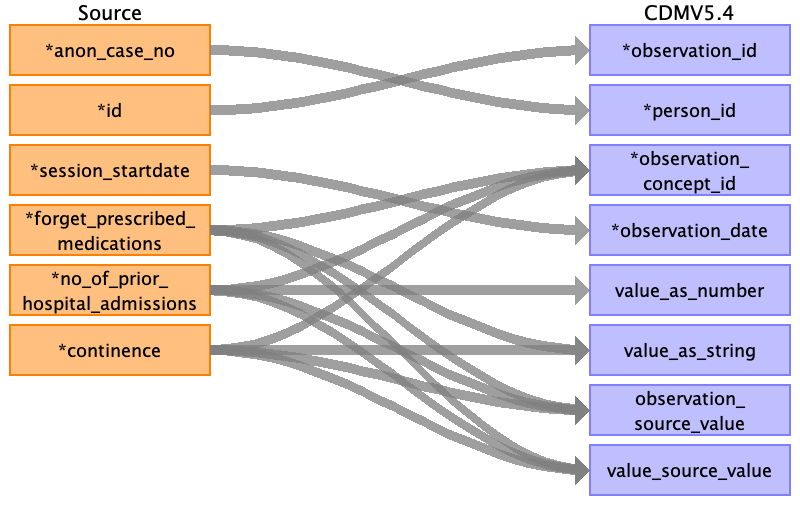
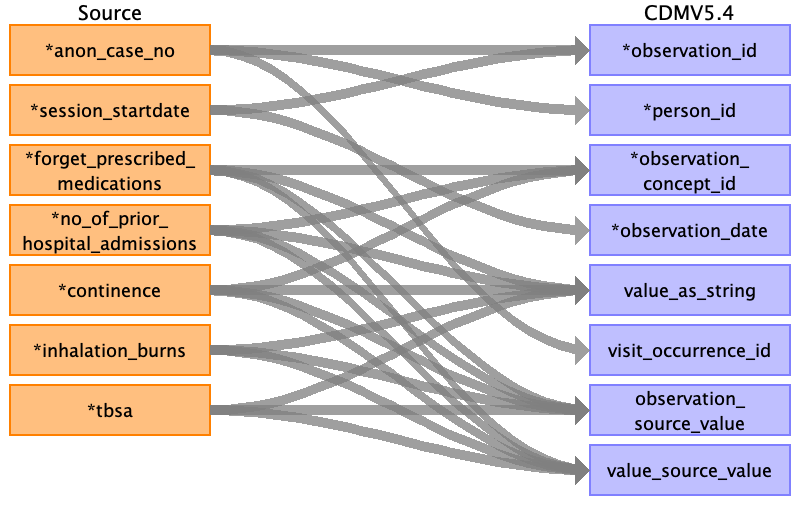
Update condition_occurrence and observation

diff --git a/observation.md b/observation.md
@@ -6,25 +6,25 @@
 
 | Destination Field | Source field | Logic | Comment field |
 | --- | --- | --- | --- |
-| observation_id | id |  |  |
-| person_id | anon_case_no |  |  |
-| observation_concept_id | high_risk_op<br>h_o_ihd<br>h_o_chf<br>h_o_cva<br>dm_on_insulin<br>asa_class<br>cri_functional_status<br>cardiac_risk_index<br>cardiac_risk_class<br>hypertension<br>history_of_osa<br>loud_snoring<br>daytime_tiredness<br>apnoea |  |  |
+| observation_id | anon_case_no<br>session_startdate |  | Autogenerated running id by ascending order of `session_startdate` and `anon_case_no` |
+| person_id | anon_case_no | Joined with PERSON.PERSON_SOURCE_VALUE for PERSON.PERSON_ID |  |
+| observation_concept_id | high_risk_op<br>h_o_ihd<br>h_o_chf<br>h_o_cva<br>dm_on_insulin<br>hypertension<br>history_of_osa<br>loud_snoring<br>daytime_tiredness<br>apnoea<br>cpap_use<br>history_of_hypertension<br>history_of_motion_sickness<br>postop_nausea_smoking_history |  | Need standard concept ids for these observation from vocab mapping team |
 | observation_date | session_startdate |  |  |
 | observation_datetime |  |  |  |
-| observation_type_concept_id |  |  |  |
-| value_as_number | cardiac_risk_index |  |  |
-| value_as_string | h_o_ihd<br>h_o_chf<br>h_o_cva<br>dm_on_insulin<br>asa_class<br>cri_functional_status<br>cardiac_risk_class<br>hypertension<br>history_of_osa<br>loud_snoring<br>daytime_tiredness<br>apnoea |  |  |
+| observation_type_concept_id |  |  | 32879 for Registry |
+| value_as_number |  |  |  |
+| value_as_string | h_o_ihd<br>h_o_chf<br>h_o_cva<br>dm_on_insulin<br>hypertension<br>history_of_osa<br>loud_snoring<br>daytime_tiredness<br>apnoea<br>cpap_use |  | Put the string value of observation here |
 | value_as_concept_id |  |  |  |
 | qualifier_concept_id |  |  |  |
 | unit_concept_id |  |  |  |
 | provider_id |  |  |  |
-| visit_occurrence_id |  |  |  |
+| visit_occurrence_id | anon_case_no |  | Joined anon_case_no with person_id in visit_occurrence table for visit_occurrence_id<br> |
 | visit_detail_id |  |  |  |
-| observation_source_value | high_risk_op<br>h_o_ihd<br>h_o_chf<br>h_o_cva<br>dm_on_insulin<br>asa_class<br>cri_functional_status<br>cardiac_risk_index<br>cardiac_risk_class<br>hypertension<br>history_of_osa<br>loud_snoring<br>daytime_tiredness<br>apnoea |  |  |
+| observation_source_value | high_risk_op<br>h_o_ihd<br>h_o_chf<br>h_o_cva<br>dm_on_insulin<br>hypertension<br>history_of_osa<br>loud_snoring<br>daytime_tiredness<br>apnoea<br>cpap_use<br>history_of_hypertension<br>history_of_motion_sickness<br>postop_nausea_smoking_history |  | Put the name of observation here |
 | observation_source_concept_id |  |  |  |
 | unit_source_value |  |  |  |
 | qualifier_source_value |  |  |  |
-| value_source_value |  |  |  |
+| value_source_value | high_risk_op<br>h_o_ihd<br>h_o_chf<br>h_o_cva<br>dm_on_insulin<br>hypertension<br>history_of_osa<br>loud_snoring<br>daytime_tiredness<br>apnoea<br>cpap_use<br>history_of_hypertension<br>history_of_motion_sickness<br>postop_nausea_smoking_history |  | Put the source value of observation here |
 | observation_event_id |  |  |  |
 | obs_event_field_concept_id |  |  |  |
 
@@ -34,25 +34,25 @@
 
 | Destination Field | Source field | Logic | Comment field |
 | --- | --- | --- | --- |
-| observation_id | id |  |  |
-| person_id | anon_case_no |  |  |
-| observation_concept_id | forget_prescribed_medications<br>no_of_prior_hospital_admissions<br>continence |  |  |
+| observation_id | anon_case_no<br>session_startdate |  | Autogenerated running id by ascending order of `session_startdate` and `anon_case_no` |
+| person_id | anon_case_no | Joined with PERSON.PERSON_SOURCE_VALUE for PERSON.PERSON_ID |  |
+| observation_concept_id | forget_prescribed_medications<br>no_of_prior_hospital_admissions<br>continence |  | Need standard concept ids for these observation from vocab mapping team |
 | observation_date | session_startdate |  |  |
 | observation_datetime |  |  |  |
-| observation_type_concept_id |  |  |  |
-| value_as_number | no_of_prior_hospital_admissions |  |  |
-| value_as_string | forget_prescribed_medications<br>continence |  |  |
+| observation_type_concept_id |  |  | 32879 for Registry |
+| value_as_number |  |  |  |
+| value_as_string | forget_prescribed_medications<br>continence<br>no_of_prior_hospital_admissions<br>inhalation_burns<br>tbsa |  | Put the string value of observation here |
 | value_as_concept_id |  |  |  |
 | qualifier_concept_id |  |  |  |
 | unit_concept_id |  |  |  |
 | provider_id |  |  |  |
-| visit_occurrence_id |  |  |  |
+| visit_occurrence_id | anon_case_no | Joined anon_case_no with person_id in visit_occurrence table for visit_occurrence_id |  |
 | visit_detail_id |  |  |  |
-| observation_source_value | forget_prescribed_medications<br>no_of_prior_hospital_admissions<br>continence |  |  |
+| observation_source_value | forget_prescribed_medications<br>no_of_prior_hospital_admissions<br>continence<br>inhalation_burns<br>tbsa |  | Put the name of observation here |
 | observation_source_concept_id |  |  |  |
 | unit_source_value |  |  |  |
 | qualifier_source_value |  |  |  |
-| value_source_value | forget_prescribed_medications<br>no_of_prior_hospital_admissions<br>continence |  |  |
+| value_source_value | forget_prescribed_medications<br>no_of_prior_hospital_admissions<br>continence<br>inhalation_burns<br>tbsa |  | Put the source value of observation here |
 | observation_event_id |  |  |  |
 | obs_event_field_concept_id |  |  |  |
 
@@ -62,25 +62,137 @@
 
 | Destination Field | Source field | Logic | Comment field |
 | --- | --- | --- | --- |
-| observation_id | id |  |  |
-| person_id | anon_case_no |  |  |
-| observation_concept_id | smoking_history<br>alcohol_consumption<br>pregnancy_gender<br>presence_of_malignancy<br>allergy_information |  |  |
-| observation_date | visit_date |  |  |
+| observation_id | anon_case_no<br>session_startdate |  | Autogenerated running id by ascending order of `session_startdate` and `anon_case_no` |
+| person_id | anon_case_no | Joined with PERSON.PERSON_SOURCE_VALUE for PERSON.PERSON_ID |  |
+| observation_concept_id | smoking_history<br>alcohol_consumption<br>pregnancy_gender<br>presence_of_malignancy<br>allergy_information<br>physical_general<br>physical_cardio<br>physical_respiratory |  | Need standard concept ids for these observation from vocab mapping team |
+| observation_date | session_startdate |  |  |
 | observation_datetime |  |  |  |
-| observation_type_concept_id |  |  |  |
+| observation_type_concept_id |  |  | 32879 for Registry |
 | value_as_number |  |  |  |
-| value_as_string | smoking_history<br>pregnancy_gender<br>alcohol_consumption<br>presence_of_malignancy |  |  |
-| value_as_concept_id | allergy_information |  |  |
+| value_as_string | smoking_history<br>pregnancy_gender<br>alcohol_consumption<br>presence_of_malignancy |  | Put the string value of observation here |
+| value_as_concept_id | allergy_information |  | Put standard id for drug allergy here, e.g., 4241527 for Allergy to sulfonamide<br> |
 | qualifier_concept_id |  |  |  |
 | unit_concept_id |  |  |  |
 | provider_id |  |  |  |
-| visit_occurrence_id |  |  |  |
+| visit_occurrence_id | anon_case_no | Joined anon_case_no with person_id in visit_occurrence table for visit_occurrence_id |  |
 | visit_detail_id |  |  |  |
-| observation_source_value | smoking_history<br>alcohol_consumption<br>pregnancy_gender<br>presence_of_malignancy<br>allergy_information |  |  |
+| observation_source_value | smoking_history<br>alcohol_consumption<br>pregnancy_gender<br>presence_of_malignancy<br>allergy_information<br>physical_general<br>physical_cardio<br>physical_respiratory |  | Put the name of observation here |
 | observation_source_concept_id |  |  |  |
 | unit_source_value |  |  |  |
 | qualifier_source_value |  |  |  |
-| value_source_value | allergy_information<br>smoking_history<br>alcohol_consumption<br>pregnancy_gender<br>presence_of_malignancy |  |  |
+| value_source_value | allergy_information<br>smoking_history<br>alcohol_consumption<br>pregnancy_gender<br>presence_of_malignancy<br>physical_general<br>physical_cardio<br>physical_respiratory |  | Put the source value of observation here |
+| observation_event_id |  |  |  |
+| obs_event_field_concept_id |  |  |  |
+
+### Reading from post_op__discharge
+
+![](md_files/image15.png)
+
+| Destination Field | Source field | Logic | Comment field |
+| --- | --- | --- | --- |
+| observation_id | anon_case_no<br>session_startdate |  | Autogenerated running id by ascending order of `session_startdate` and `anon_case_no` |
+| person_id | anon_case_no |  |  |
+| observation_concept_id | days_postop |  | Need standard concept ids for these observation from vocab mapping team |
+| observation_date | session_startdate |  |  |
+| observation_datetime |  |  |  |
+| observation_type_concept_id |  |  | 32879 for Registry |
+| value_as_number |  |  |  |
+| value_as_string | days_postop |  | Put the string value of observation here |
+| value_as_concept_id |  |  |  |
+| qualifier_concept_id |  |  |  |
+| unit_concept_id |  |  |  |
+| provider_id |  |  |  |
+| visit_occurrence_id | anon_case_no |  |  |
+| visit_detail_id |  |  |  |
+| observation_source_value | days_postop |  | Put the name of observation here |
+| observation_source_concept_id |  |  |  |
+| unit_source_value |  |  |  |
+| qualifier_source_value |  |  |  |
+| value_source_value | days_postop |  | Put the source value of observation here |
+| observation_event_id |  |  |  |
+| obs_event_field_concept_id |  |  |  |
+
+### Reading from post_op__info
+
+![](md_files/image16.png)
+
+| Destination Field | Source field | Logic | Comment field |
+| --- | --- | --- | --- |
+| observation_id | anon_case_no<br>session_startdate |  | Autogenerated running id by ascending order of `session_startdate` and `anon_case_no` |
+| person_id | anon_case_no |  |  |
+| observation_concept_id | postop_patient_satisfaction<br>satisfaction_at_analgesia_removal |  | Need standard concept ids for these observation from vocab mapping team |
+| observation_date | session_startdate |  |  |
+| observation_datetime |  |  |  |
+| observation_type_concept_id |  |  | 32879 for Registry |
+| value_as_number | postop_patient_satisfaction |  |  |
+| value_as_string | satisfaction_at_analgesia_removal |  | Put the string value of observation here |
+| value_as_concept_id |  |  |  |
+| qualifier_concept_id |  |  |  |
+| unit_concept_id |  |  |  |
+| provider_id |  |  |  |
+| visit_occurrence_id | anon_case_no |  |  |
+| visit_detail_id |  |  |  |
+| observation_source_value | postop_patient_satisfaction<br>satisfaction_at_analgesia_removal |  | Put the name of observation here |
+| observation_source_concept_id |  |  |  |
+| unit_source_value |  |  |  |
+| qualifier_source_value |  |  |  |
+| value_source_value | postop_patient_satisfaction<br>satisfaction_at_analgesia_removal |  | Put the source value of observation here |
+| observation_event_id |  |  |  |
+| obs_event_field_concept_id |  |  |  |
+
+### Reading from post_op__icu
+
+![](md_files/image17.png)
+
+| Destination Field | Source field | Logic | Comment field |
+| --- | --- | --- | --- |
+| observation_id | anon_case_no<br>session_startdate |  | Autogenerated running id by ascending order of `session_startdate` and `anon_case_no` |
+| person_id | anon_case_no |  |  |
+| observation_concept_id | resuscitation_status |  | Need standard concept ids for these observation from vocab mapping team |
+| observation_date | session_startdate |  |  |
+| observation_datetime |  |  |  |
+| observation_type_concept_id |  |  | 32879 for Registry |
+| value_as_number |  |  |  |
+| value_as_string | resuscitation_status |  | Put the string value of observation here |
+| value_as_concept_id |  |  |  |
+| qualifier_concept_id |  |  |  |
+| unit_concept_id |  |  |  |
+| provider_id |  |  |  |
+| visit_occurrence_id | anon_case_no |  |  |
+| visit_detail_id |  |  |  |
+| observation_source_value | resuscitation_status |  | Put the name of observation here |
+| observation_source_concept_id |  |  |  |
+| unit_source_value |  |  |  |
+| qualifier_source_value |  |  |  |
+| value_source_value | resuscitation_status |  | Put the source value of observation here |
+| observation_event_id |  |  |  |
+| obs_event_field_concept_id |  |  |  |
+
+### Reading from post_op__renal
+
+![](md_files/image18.png)
+
+| Destination Field | Source field | Logic | Comment field |
+| --- | --- | --- | --- |
+| observation_id | anon_case_no<br>dialysis_endtime |  | Autogenerated running id by ascending order of `session_startdate` and `anon_case_no` |
+| person_id | anon_case_no |  |  |
+| observation_concept_id | delivered_length_of_dialysis |  | Need standard concept ids for these observation from vocab mapping team |
+| observation_date | dialysis_endtime |  |  |
+| observation_datetime |  |  |  |
+| observation_type_concept_id |  |  | 32879 for Registry |
+| value_as_number |  |  |  |
+| value_as_string | delivered_length_of_dialysis |  | Put the string value of observation here |
+| value_as_concept_id |  |  |  |
+| qualifier_concept_id |  |  |  |
+| unit_concept_id |  |  |  |
+| provider_id |  |  |  |
+| visit_occurrence_id | anon_case_no |  |  |
+| visit_detail_id |  |  |  |
+| observation_source_value | delivered_length_of_dialysis |  | Put the name of observation here |
+| observation_source_concept_id |  |  |  |
+| unit_source_value |  |  |  |
+| qualifier_source_value |  |  |  |
+| value_source_value | delivered_length_of_dialysis |  | Put the source value of observation here |
 | observation_event_id |  |  |  |
 | obs_event_field_concept_id |  |  |  |
 

diff --git a/condition_occurrence.md b/condition_occurrence.md
@@ -6,18 +6,18 @@
 
 | Destination Field | Source field | Logic | Comment field |
 | --- | --- | --- | --- |
-| condition_occurrence_id | id<br>diagnosis_date |  | Autogenerated unique ids, order by date then discharge id. |
-| person_id | anon_case_no |  |  |
-| condition_concept_id | diagnosis_code |  |  |
-| condition_start_date |  |  |  |
-| condition_start_datetime | diagnosis_date |  |  |
+| condition_occurrence_id | diagnosis_date<br>anon_case_no |  | Autogenerated unique ids, order by diagnosis_date then anon_case_no. |
+| person_id | anon_case_no | Joined with PERSON.PERSON_SOURCE_VALUE for PERSON.PERSON_ID |  |
+| condition_concept_id | diagnosis_code | Mapped by source_to_concept_map table from vocab team |  |
+| condition_start_date | diagnosis_date |  | Don't have actual condition_start_date in the data, so the diagnosis_date is used instead<br> |
+| condition_start_datetime |  |  |  |
 | condition_end_date |  |  |  |
 | condition_end_datetime |  |  |  |
-| condition_type_concept_id |  |  | 32879	Registry |
-| condition_status_concept_id |  |  |  |
+| condition_type_concept_id |  |  | 32879 for Registry |
+| condition_status_concept_id |  |  | 32896 for Discharge diagnosis |
 | stop_reason |  |  |  |
 | provider_id |  |  |  |
-| visit_occurrence_id |  |  |  |
+| visit_occurrence_id | anon_case_no | Joined anon_case_no with person_id in visit_occurrence table for visit_occurrence_id |  |
 | visit_detail_id |  |  |  |
 | condition_source_value | diagnosis_code |  |  |
 | condition_source_concept_id |  |  |  |

diff --git a/visit_occurrence.md b/visit_occurrence.md
@@ -6,7 +6,7 @@
 
 | Destination Field | Source field | Logic | Comment field |
 | --- | --- | --- | --- |
-| visit_occurrence_id | anon_case_no | Autogenerated unique ids based on 'anon_case_no' field. |  |
+| visit_occurrence_id | anon_case_no<br>session_startdate |  | Autogenerated unique ids order by 'session_start_date' and 'anon_case_no'. |
 | person_id | anon_case_no | Joined with PERSON.PERSON_SOURCE_VALUE for PERSON.PERSON_ID | Each case is considered a new patient. PASAR has no master patient table nor unique patient id.    BEWARE: `anon_case_no` is not unique. The PK of pre_op.char is `operation_id`.<br> |
 | visit_concept_id | admission_type | based on the admission_type , we need to fetch the concept_id    TODO: map standard concept ids | It has a value  like    Inpatient  Day Surgery (DS)  Same Day Admission (SDA)<br> |
 | visit_start_date | session_startdate |  |  |
@@ -30,7 +30,7 @@
 
 | Destination Field | Source field | Logic | Comment field |
 | --- | --- | --- | --- |
-| visit_occurrence_id |  |  |  |
+| visit_occurrence_id |  |  | Autogenerated unique ids order by 'session_start_date' and 'anon_case_no'. |
 | person_id | anon_case_no |  |  |
 | visit_concept_id |  |  |  |
 | visit_start_date |  |  |  |

diff --git a/care_site.md b/care_site.md
@@ -2,7 +2,7 @@
 
 ### Reading from intra_op__operation
 
-![](md_files/image16.png)
+![](md_files/image20.png)
 
 | Destination Field | Source field | Logic | Comment field |
 | --- | --- | --- | --- |
@@ -15,7 +15,7 @@
 
 ### Reading from post_op__discharge
 
-![](md_files/image17.png)
+![](md_files/image21.png)
 
 | Destination Field | Source field | Logic | Comment field |
 | --- | --- | --- | --- |
@@ -28,7 +28,7 @@
 
 ### Reading from post_op__icu
 
-![](md_files/image18.png)
+![](md_files/image22.png)
 
 | Destination Field | Source field | Logic | Comment field |
 | --- | --- | --- | --- |

diff --git a/death.md b/death.md
@@ -2,11 +2,11 @@
 
 ### Reading from post_op__info
 
-![](md_files/image15.png)
+![](md_files/image19.png)
 
 | Destination Field | Source field | Logic | Comment field |
 | --- | --- | --- | --- |
-| person_id | anon_case_no |  |  |
+| person_id | anon_case_no | Joined with PERSON.PERSON_SOURCE_VALUE for PERSON.PERSON_ID |  |
 | death_date | death_date | SELECT * FROM post_op__info WHERE death_date IS NOT NULL; |  |
 | death_datetime |  |  |  |
 | death_type_concept_id |  |  | 32879	Registry |

diff --git a/provider.md b/provider.md
@@ -2,7 +2,7 @@
 
 ### Reading from intra_op__operation
 
-![](md_files/image19.png)
+![](md_files/image23.png)
 
 | Destination Field | Source field | Logic | Comment field |
 | --- | --- | --- | --- |

diff --git a/index.md b/index.md
@@ -1,6 +1,6 @@
 # Source Data Mapping Approach to CDMV5.4
 
-![](md_files/image20.png)
+![](md_files/image24.png)
 
 ## Contents
 
